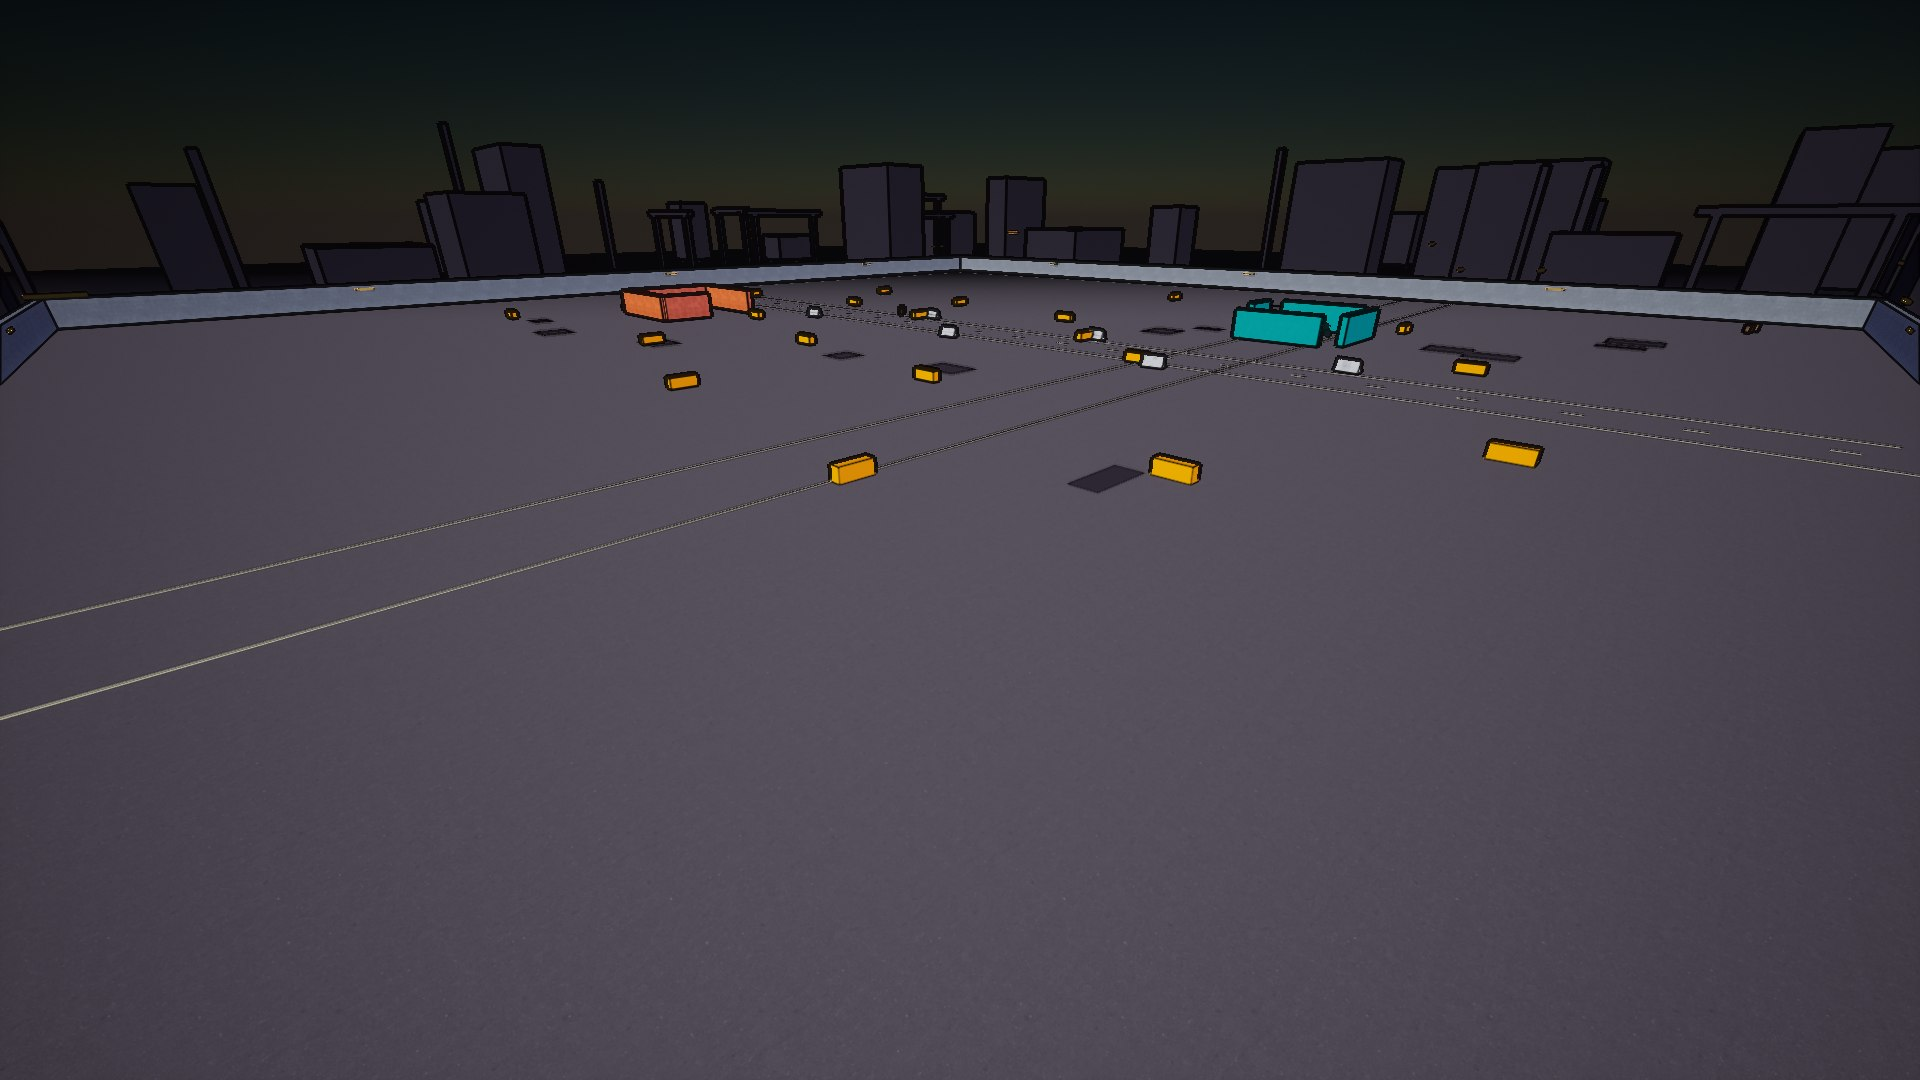
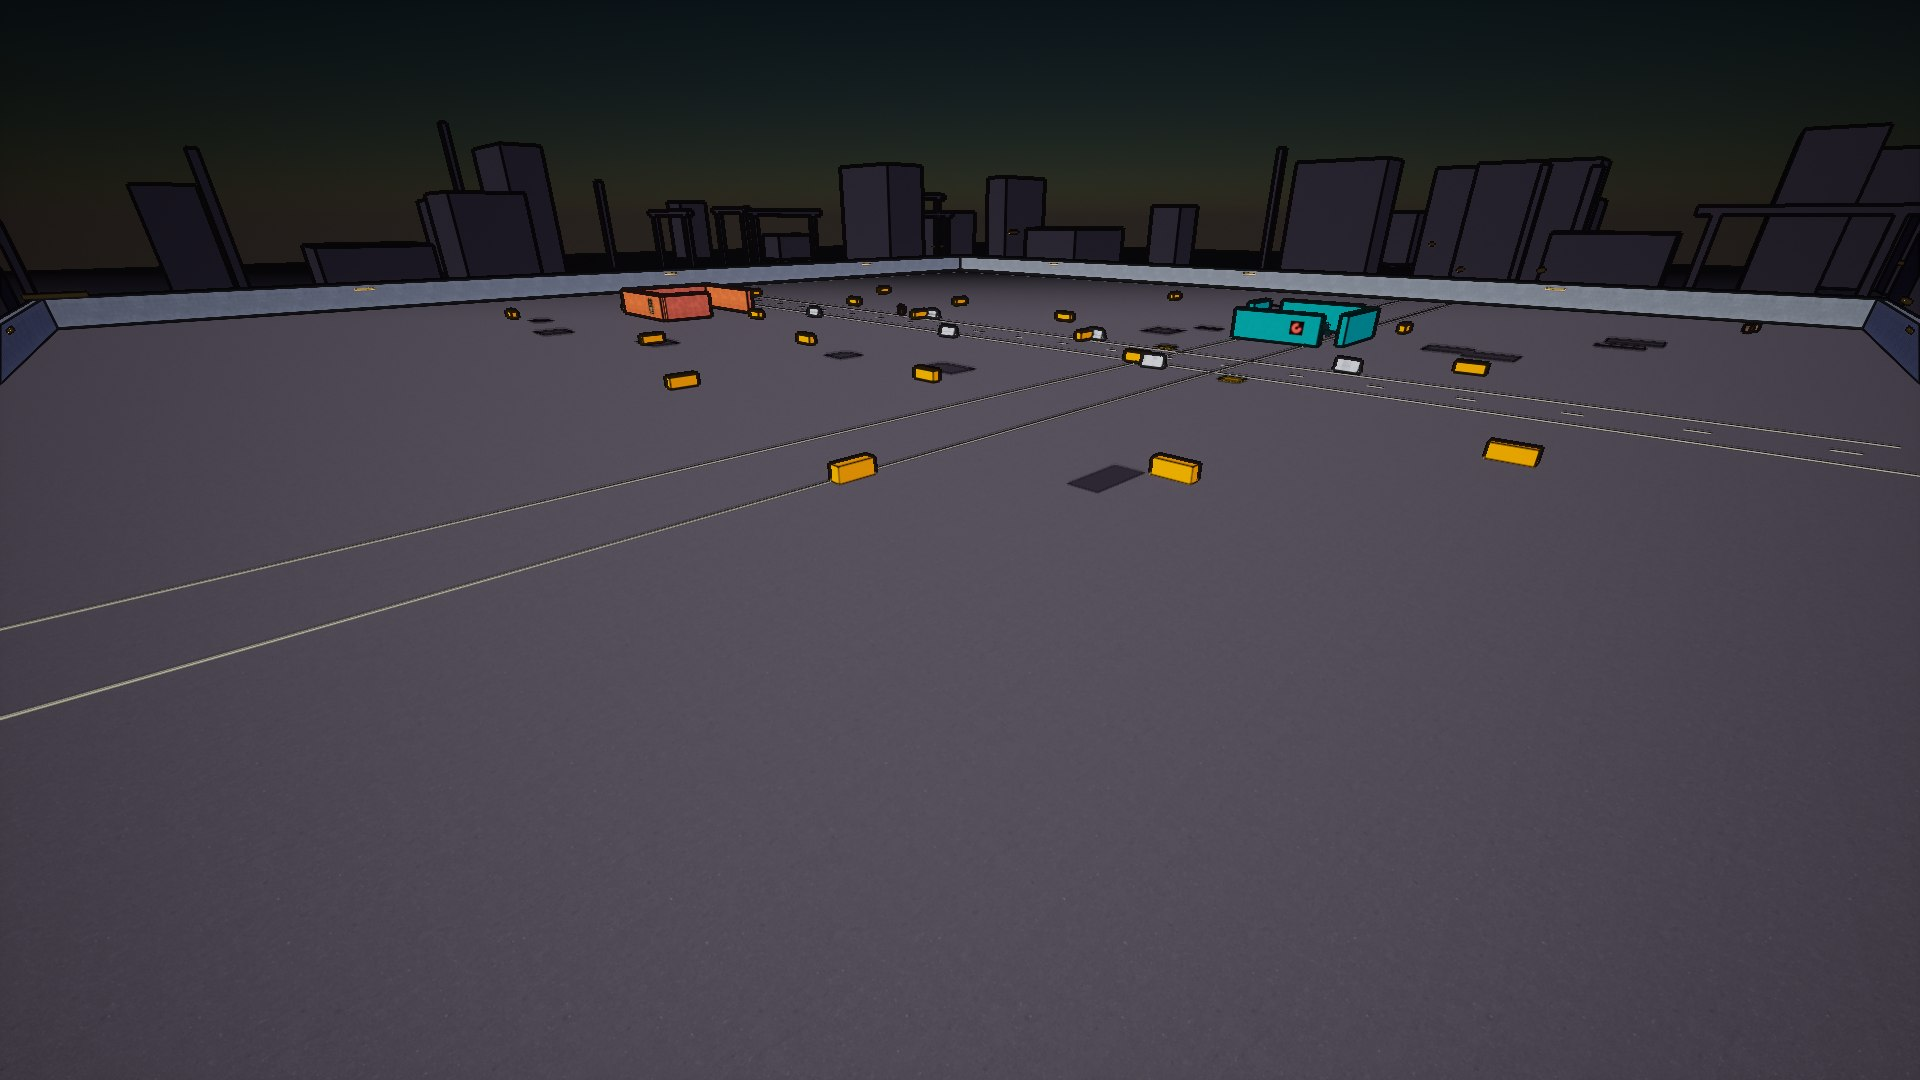
[Repo] Record loop iteration 5 (Pillow decals, Fab library status)

diff --git a/progress_data.js b/progress_data.js
@@ -3,7 +3,7 @@
 // en worden door Tools/update_progress.ps1 gegenereerd — daar blijf je vanaf.
 // Regels: percentages zijn eerlijk (liever te laag dan gejokt); geen HTML hier, alleen data.
 window.PROGRESS_DATA = {
-  bijgewerkt: "2026-07-23 09:00",
+  bijgewerkt: "2026-07-23 09:30",
   hero: { label: "Hele game", pct: 8 },
   playtestChip: "PIE-playtest door eigenaar: OPEN (gate-vraag 13.2)",
 
@@ -48,7 +48,7 @@ window.PROGRESS_DATA = {
         { naam: "Belichting / mood", pct: 85, notitie: "SM6-pad live: volumetric smog + zon-schaduwen + skylight + film grain (15.5-revisie); lit-toon-migratie (echte Lumen-GI) is de volgende milestone." },
         { naam: "Kleurenpalet & blok-dressing", pct: 60, notitie: "Palet + skyline-ring + EERSTE ECHTE TEXTURES (CC0 Poly Haven, world-aligned door de toon-pijplijn; gain genormaliseerd op gemeten lineair gemiddelde)." },
         { naam: "Gebouwen (echte kits)", pct: 10 },
-        { naam: "Straten / props / decals", pct: 20, notitie: "EERSTE ECHTE MESHES: CC0-props (vaten/wegbarrières/kratten) door de toon-pijplijn (mesh-UV, luminantie-only), no-collision dressing." },
+        { naam: "Straten / props / decals", pct: 30, notitie: "CC0-props (vaten/barrières/kratten) + Pillow-gegenereerde bezettings-decals (Dominion-posters, hazard-pads, verzets-stencils) — allemaal door de toon-pijplijn, no-collision." },
         { naam: "Bomen / vegetatie", pct: 0, notitie: "Eerste vegetatie Phase 3 (Sylvaris)." },
         { naam: "Characters / MetaHumans", pct: 0, notitie: "Phase 2→3." },
         { naam: "Weer & dag/nacht", pct: 0 },
@@ -93,6 +93,12 @@ window.PROGRESS_DATA = {
   screenshotNoot: "Sterke PC (GTX 1080 Ti, SM6) — texture-ronde: CC0-albedo's (asfalt/beton/metaalplaat/golfplaat) door de toon-pijplijn, exposure-neutraal genormaliseerd; skyline + inktlijnen + schemer-mood intact.",
 
   changelog: [
+    { datum: "Sessie 2026-07-23 (loop-iteratie 5 — bezettings-decals via Pillow)", punten: [
+      "PILLOW IN GEBRUIK: Tools/generate_decals.py genereert abstracte luminantie-decals (AEGIS-oog-poster, hazard-strepen, verzets-eclips-stencil) — kleur komt ALTIJD van het palet (Dominion-goud, rebel-rood, amber), dus palet-discipline is structureel geborgd.",
+      "Decals geplaatst als no-collision planes: propaganda op de compound-gevels, hazard-pads bij de kruising, stencils bij Entry_Main en op het warehouse — het district vertelt nu bezetting én verzet (15.5/03.3).",
+      "Zelfde meetdiscipline als textures: gains per decal gemeten (7.8/1.3/7.1), niet geschat.",
+      "Groene bar: build ✓, 31/31 ✓, validatie 0 ✓, catalog 19/19 ✓."
+    ]},
     { datum: "Sessie 2026-07-23 (loop-iteratie 4 — eerste echte props + tools)", punten: [
       "EERSTE ECHTE 3D-MESHES in het district: CC0-props van Poly Haven (Barrel_01, concrete_road_barrier, plastic_crate_03) — FBX + diffuse gedownload via API, geïmporteerd (Tools/import_polyhaven_props.py), geplaatst als vaten-clusters, checkpoint-barrières en krat-stapels (no-collision dressing, deterministisch).",
       "Toon-materiaal kreeg een mesh-UV-pad (UVMode) zodat geïmporteerde props hun eigen UVs gebruiken; alle material-slots krijgen de toon-MID; tonemapper-les: bijna-neutrale heldere paletten worden bleek — vat-palet naar donker verzadigd roest.",

diff --git a/HANDOFF.md b/HANDOFF.md
@@ -160,7 +160,9 @@ The clean mechanism is **git**. The bible + code are already **one repo** (§2),
 
 **Loop-iteratie 4:** eerste echte 3D-meshes geland — CC0-props (vat/wegbarrière/krat, Poly Haven-API) door de toon-pijplijn via een nieuw mesh-UV-pad (UVMode-param); alle slots MID; les: bijna-neutrale ×10-paletten tonemappen naar bleek → vat op donker roest. Tools: Pillow ✓, ffmpeg ✓, Blender in UAC-wachtrij (geen blokker). Eigenaar: fab.com-login ✓; nog open: Launcher-login + shortlist-kliks, ElevenLabs-scopes. Character-route gekozen per Bible: **CC0-stylized (Quaternius) nu** voor squad/vijand-placeholders (past bij gelockte 15.5 + volledig autonoom), **MetaHuman-evaluatie bij Phase 2→3** voor hero-companions; Mixamo-animaties = klik-lijst voor de eigenaar zodra de animatie-pass start (geen browser-besturing in deze omgeving), met Quaternius' CC0-animatiebibliotheek als autonoom alternatief.
 
-**Bekende volgende zwakste punten (15.8-lijst):** (1) Pillow-decals: propaganda/waarschuwingsborden genereren + als deco-planes plaatsen (15.5 occupation story); (2) Quaternius-characterpack binnenhalen (FBX) als squad/vijand-placeholder; (3) particles (vonken/as/embers); (4) district-verticaliteit (03.3); (5) lit-toon herbeoordelen bij interieur/dag-scène.
+**Loop-iteratie 5:** Pillow-decals live — generator `Tools/generate_decals.py` (abstract AEGIS-oog, hazard, verzets-eclips; luminantie-only zodat het palet de kleur bepaalt), import + plaatsing als no-collision planes (compound-posters, kruisings-pads, stencils bij Entry_Main/warehouse); gains gemeten (7.8/1.3/7.1). Eigenaar heeft fab.com klaargezet + shortlist ontvangen (Industry Props Pack, modulaire industriële kit, Paragon Lt. Belica, Quixel-decals) — wacht op "Add to library"-kliks + "packs staan erin"-sein.
+
+**Bekende volgende zwakste punten (15.8-lijst):** (1) Quaternius-characterpack (FBX, CC0) als squad/vijand-placeholder-body; (2) particles (vonken/as/embers, Kessara-smog); (3) district-verticaliteit (03.3 layer-cake); (4) zodra Fab-packs in het project staan: de echte kit-pass (graybox-gebouwen vervangen); (5) lit-toon herbeoordelen bij interieur/dag-scène.
 
 **Owner-afspraken die blijven gelden (elke sessie):** geen installaties/downloads/acceptatie-prompts zonder expliciet akkoord vooraf (eerst uitleggen waarvoor); bouwen met `-NoUba`; PROGRESS.html nooit bewerken (data in `progress_data.js`; `progress_auto.js` is van de watcher). `gh` is hier NIET geïnstalleerd — push werkt via de vault-token in Windows Credential Manager (username gepind in repo-config).
 
